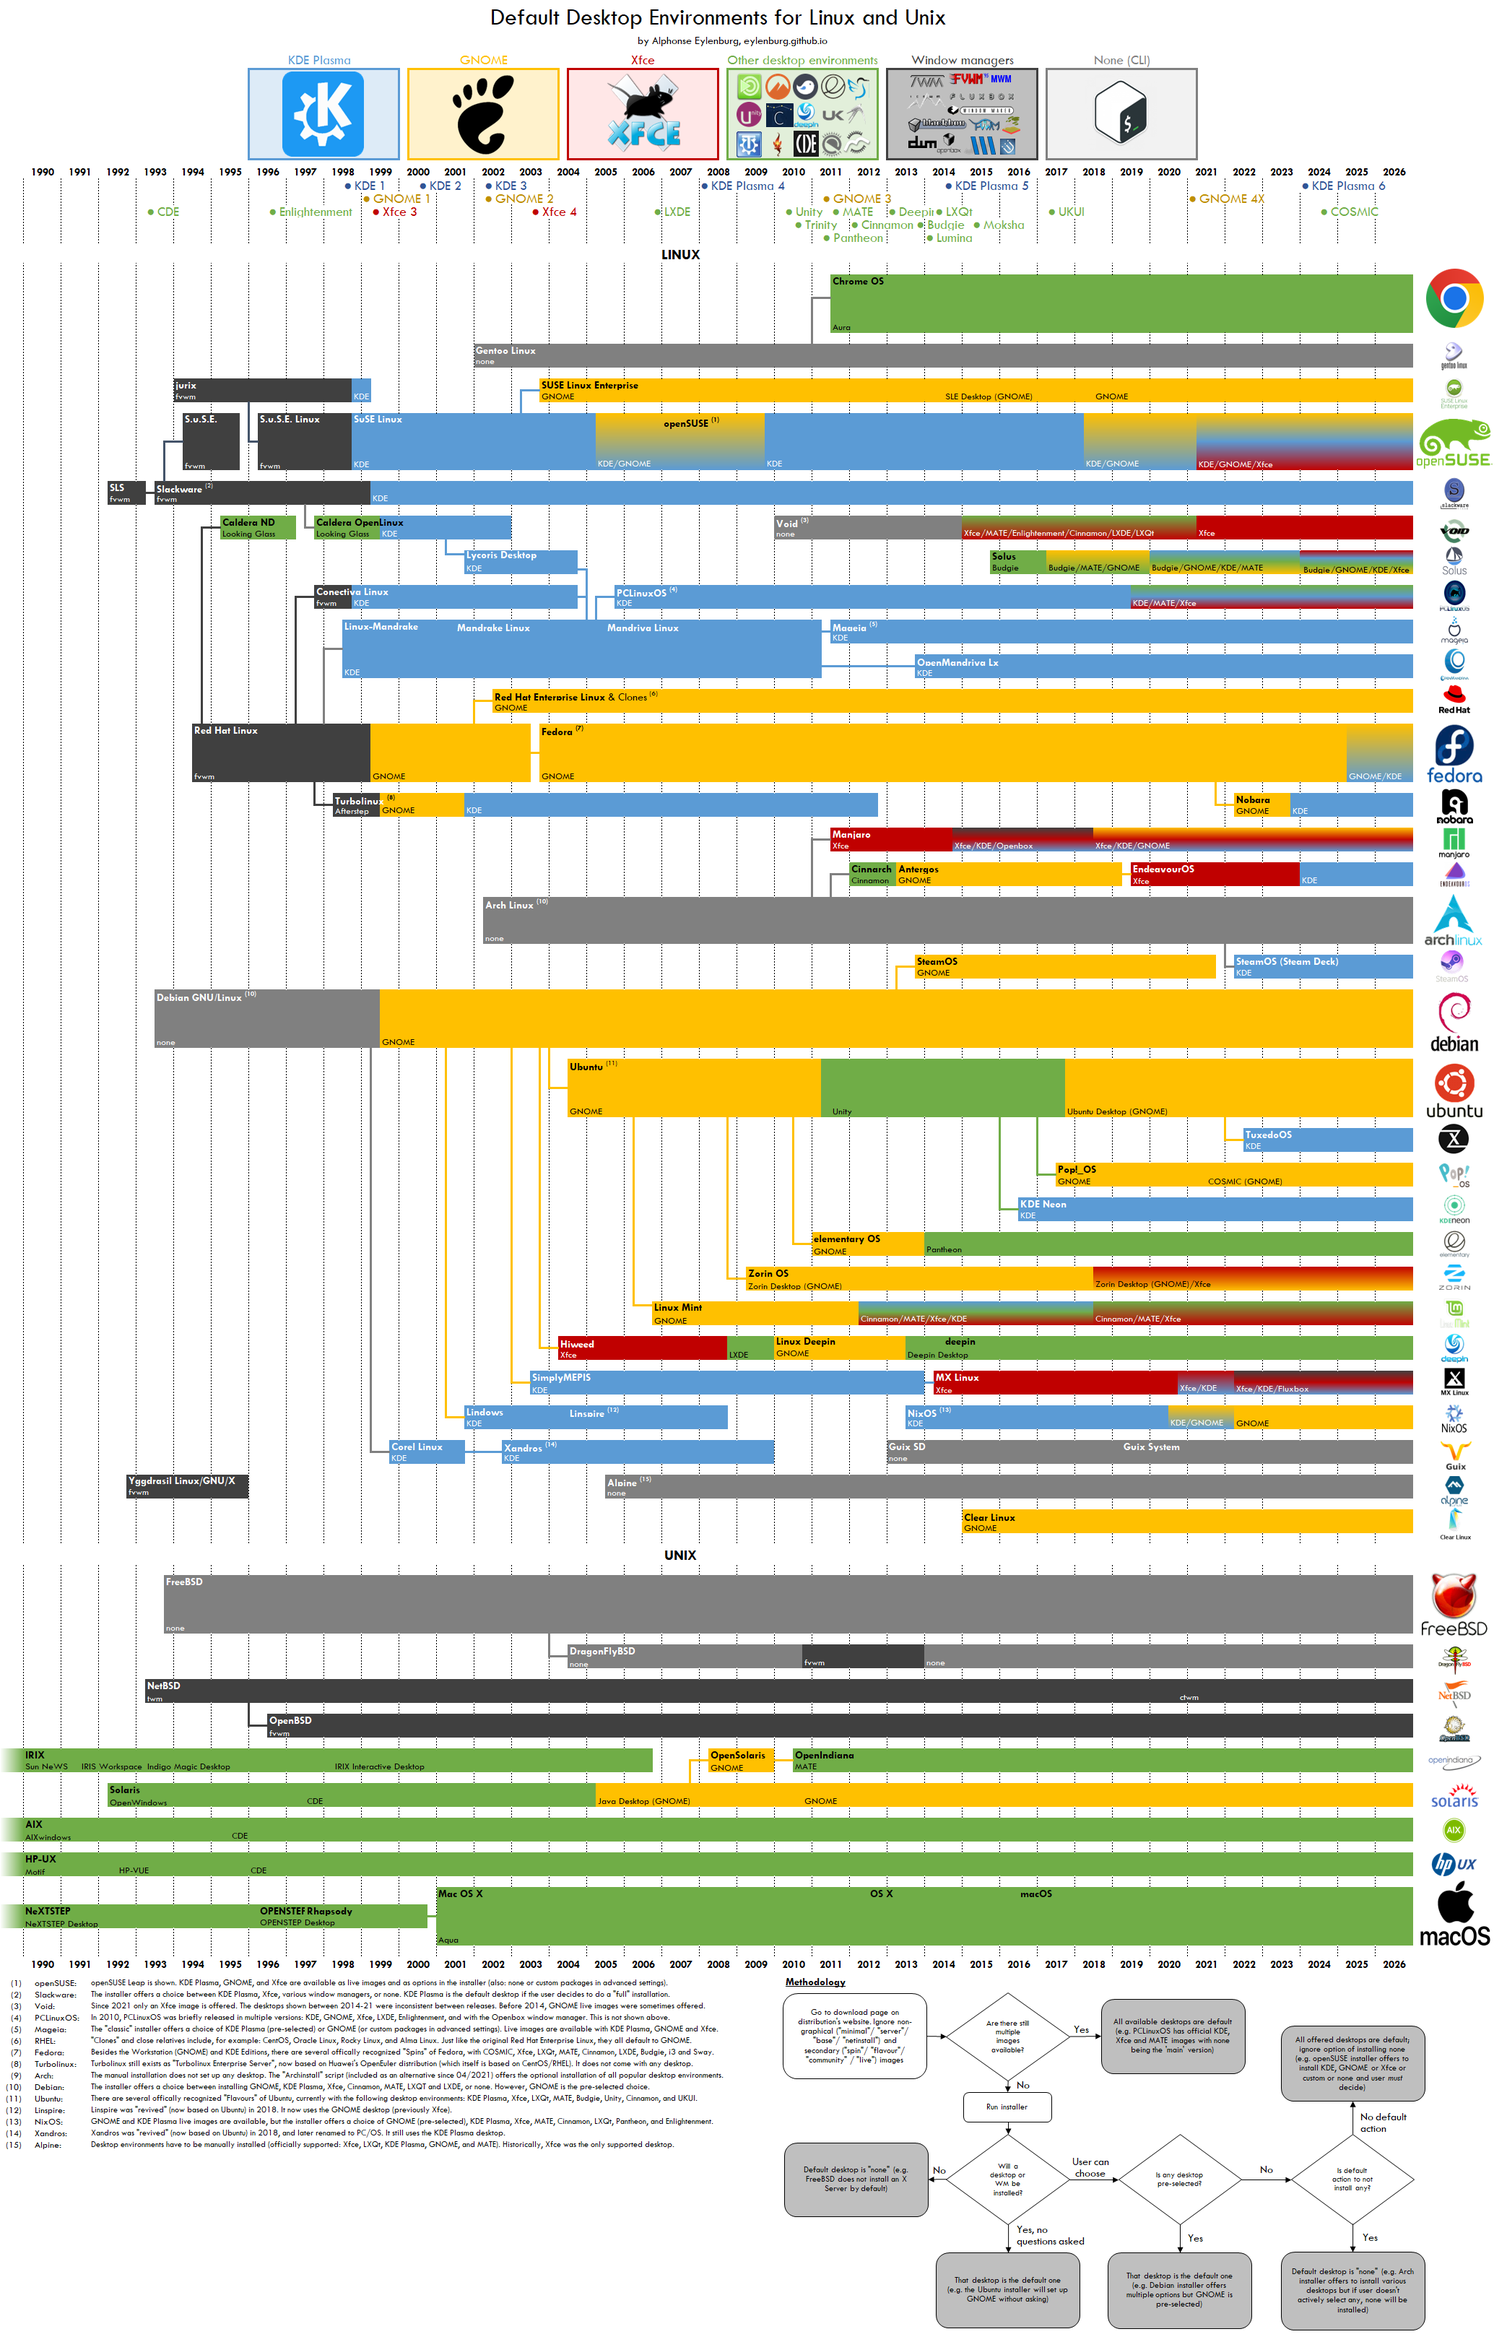
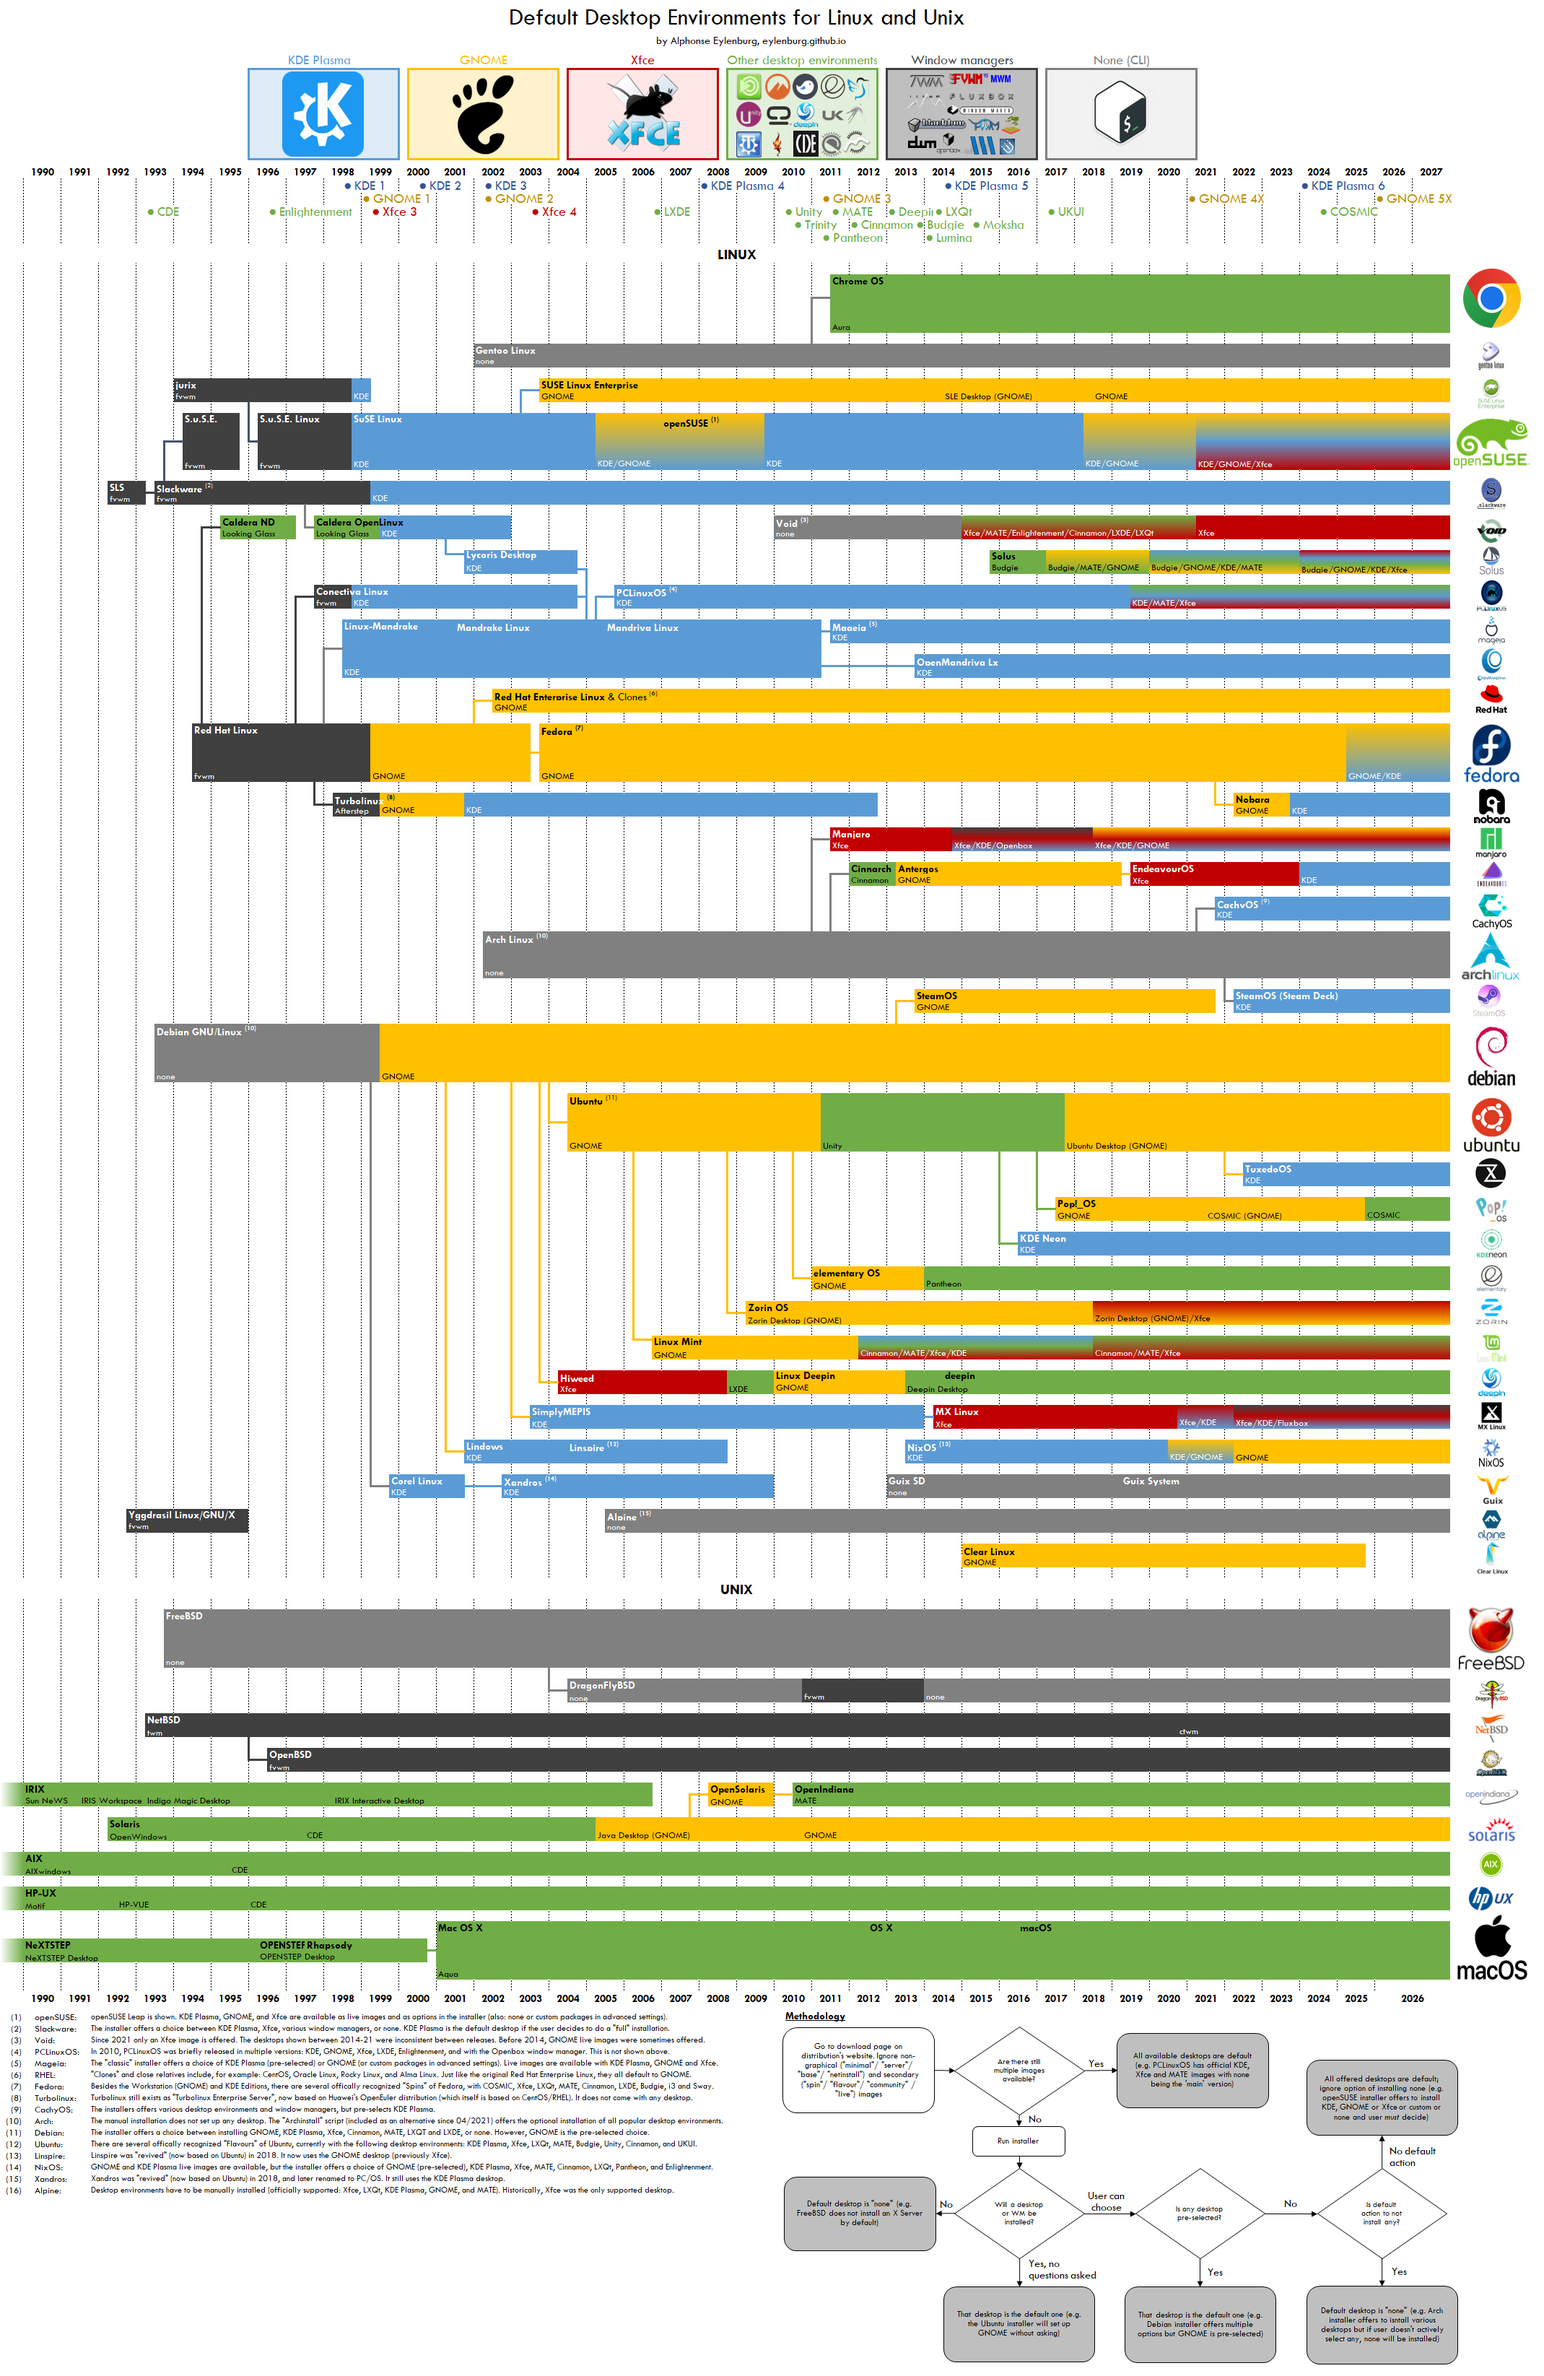
Updates to DE-Default graphic
- CachyOS added (#1 on Distrowatch)
- Clear Linux support ended (though not removed from graphic)
- pop_OS now using COSMIC
- Added GNOME 50 to timeline

diff --git a/de_default.htm b/de_default.htm
@@ -19,7 +19,7 @@
 
 <h1>Default Desktop Environments for Linux and Unix</h1>
 <h2>Timeline since 1990 showing the most important distributions</h2>
-<p style="color: red; font-size: small;">Last updated: April 2025</p>
+<p style="color: red; font-size: small;">Last updated: December 2025</p>
 
 <p>The picture below shows the standard/default desktop environments used by the most popular Linux distributions and Unix systems, since 2020. Please note the small annotations that explain why a desktop environment was determined to be the default choice or not, as this is not straightforward for every distribution. Generally, I have regarded a desktop as being the "default" if either:</p>
 

diff --git a/index.html b/index.html
@@ -204,7 +204,7 @@ img.invert {
 
   <div class="article">
   <h2>(4b) <strong><a href="de_default.htm">Desktop Environments - Default Choices for Linux and Unix</a></strong> from 1990 to Today</h2>
-  <p> <span class="gold">(last update: April 2025)</span>
+  <p> <span class="gold">(last update: December 2025)</span>
   <br />Timeline since 1990 showing the most important distributions and their default desktops (KDE, GNOME, Xfce and others)</p>
   </div>
 
